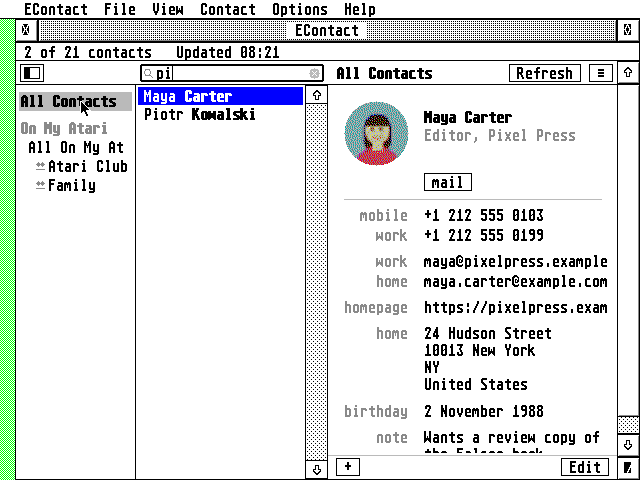
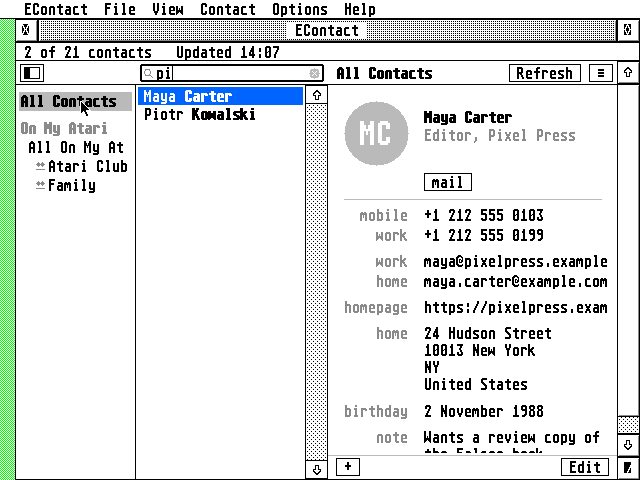
docs: every Falcon capture in 256 colours
Erez (28 Oct 2026, through the hub): every app picture on GitHub in 256
colours, where it looks its best. Retaken with docs_shots.py on
Falcon:256 (TOS 4.04, 640x480), the same rig and steps:
window, edit, edit-phone, group, search, photo-sync, context-menu,
email-complete (EMail v1.67) and ecal-invitees (ECal v2.33). The photos
come out with more colours (draw_photo's pen lists); the rest of the
window is the same, the chosen row's blue a lighter one.
Kept: st-mono.png (the ST in high resolution, as its caption says) and
memory-full.png (ECONTACT.ACC on a 1 MB ST, ST-1:mono). The help front
page's WINDOW.IMG, the icons and the banners are left as they are.
docs_shots.py takes Falcon:256 by default now.

Claude-Session: https://claude.ai/code/session_01JWXrCb5ck666x9DhJcKbCz

Changed region(s): [[0.2188, 0.1562, 0.5, 0.2188], [0.5312, 0.2188, 0.6562, 0.3438], [0.375, 0.0938, 0.4375, 0.125]]

diff --git a/tests/hatari/docs_shots.py b/tests/hatari/docs_shots.py
@@ -8,8 +8,9 @@ sample contacts (tests/hatari/sample.vcf, made-up people):
                                [--ecal-src DIR] [--falcon M] [--st M] [--update]
 
 On the family's machines (common/tools/machines.py): the Falcon at 640x480
-in 16 colours (--falcon names another, Falcon:256 say) and the ST in mono
-(--st).
+in 256 colours, where the photos look their best (Erez, 28 Oct 2026: every
+app picture in 256 colours; --falcon names another) and the ST in mono
+(--st: st-mono.png, there to show it).
 
 --memory takes memory-full: ECONTACT.ACC on a 1 MB ST (ST-1 in mono)
 with 1,000 contacts, more than fit, and the alert that says so.
@@ -233,7 +234,7 @@ def with_ecal(work, machine, spec, ecal_src):
 def main():
     ap = argparse.ArgumentParser()
     ap.add_argument("work")
-    ap.add_argument("--falcon", default="Falcon:16")
+    ap.add_argument("--falcon", default="Falcon:256")
     ap.add_argument("--st", default="ST:mono")
     ap.add_argument("--memory", action="store_true", help="memory-full, on ST-1")
     ap.add_argument("--email", nargs="?", const="EMail")

diff --git a/README.md b/README.md
@@ -472,7 +472,7 @@ The Hatari rigs run under Xvfb, with xdotool for the mouse, on the family's test
 (AERA-Atari's guidelines, The machines; `common/tools/machines.py list`): `ST` (Erez's 1040 ST,
 4 MB), `ST-1` (1 MB), `TT` and `Falcon` (Erez's, with the DFB1: 32 MHz, 14 MB ST RAM, 128 MB TT
 RAM), with a screen after a colon (`ST:mono`, `Falcon:256`). MACHINE is the ST in high
-resolution by default, the Falcon in 16 colours for `twin_test.py` and the colour screenshots,
+resolution by default, the Falcon in 16 colours for `twin_test.py`, in 256 for the screenshots,
 and `quiet_start.py` runs on both. machines.py gives each Hatari its arguments and its own
 settings, and the TOS: EmuTOS 1.4, fetched and checked once, or Erez's own TOS when
 `~/.aera/tos` has it. `quiet_sync.py`, `stop_test.py` and `falcon_tls.py` reach the network

diff --git a/CLAUDE.md b/CLAUDE.md
@@ -147,7 +147,8 @@ These come from AERA-Atari's repo template and are the same in every app's CLAUD
   the guidelines, The machines) and get Hatari's arguments, the TOS and the
   network from it (tests/hatari/rig.py), never their own options.
   `tests/hatari/docs_shots.py WORK` takes the screenshots in docs/ (on
-  Falcon:16 and ST:mono); with `--email` and `--ecal` it fetches EMail's
+  Falcon:256, every app picture in 256 colours: Erez, 28 Oct 2026; and
+  st-mono.png on ST:mono); with `--email` and `--ecal` it fetches EMail's
   and ECal's latest releases (getrelease.py). The rigs' stand-ins (fakeguide for ST-Guide, ASKER.PRG
   for EMail) are EContact's own test programs; `quiet_sync.py` uses
   common's FAKESTNG and serial bridge (common/tools/fakesting).
